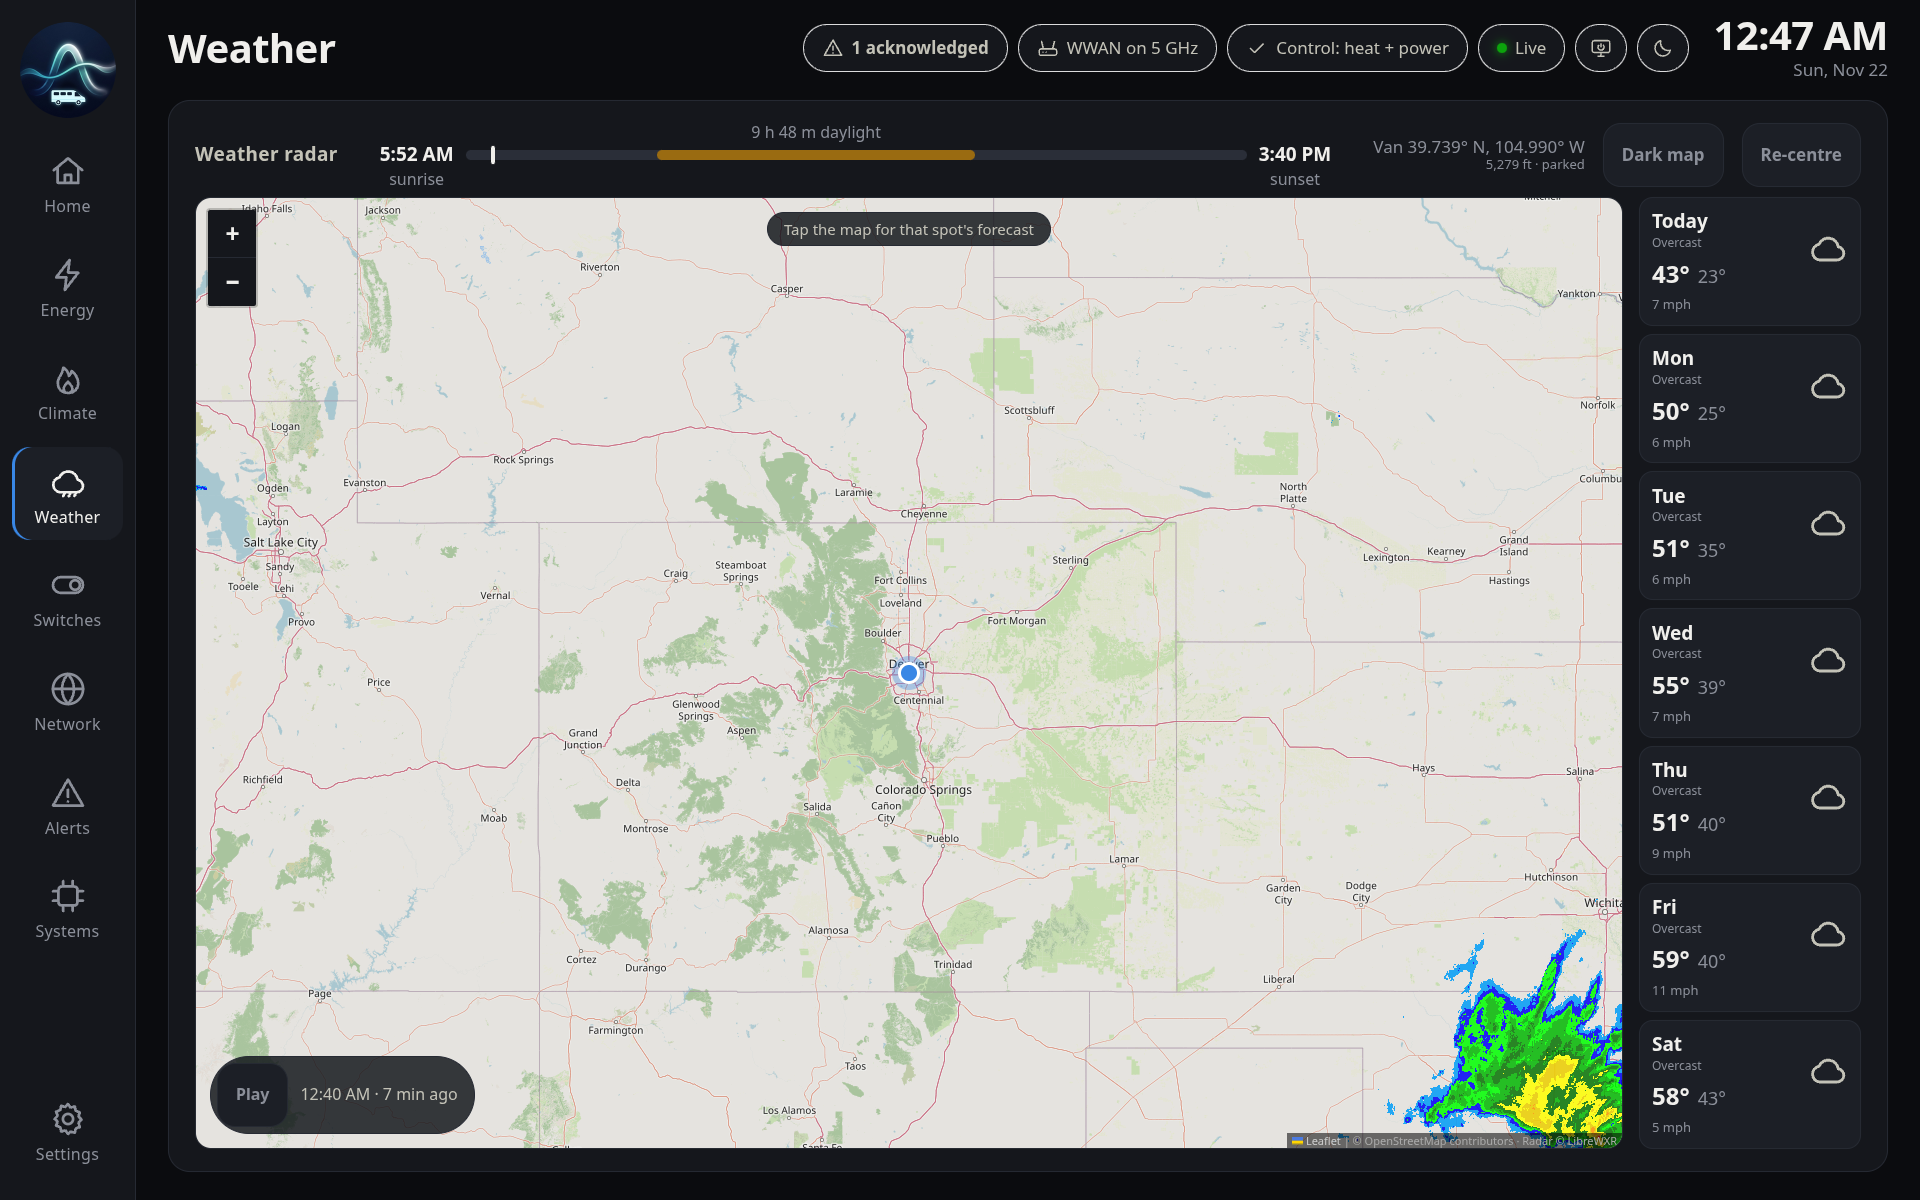
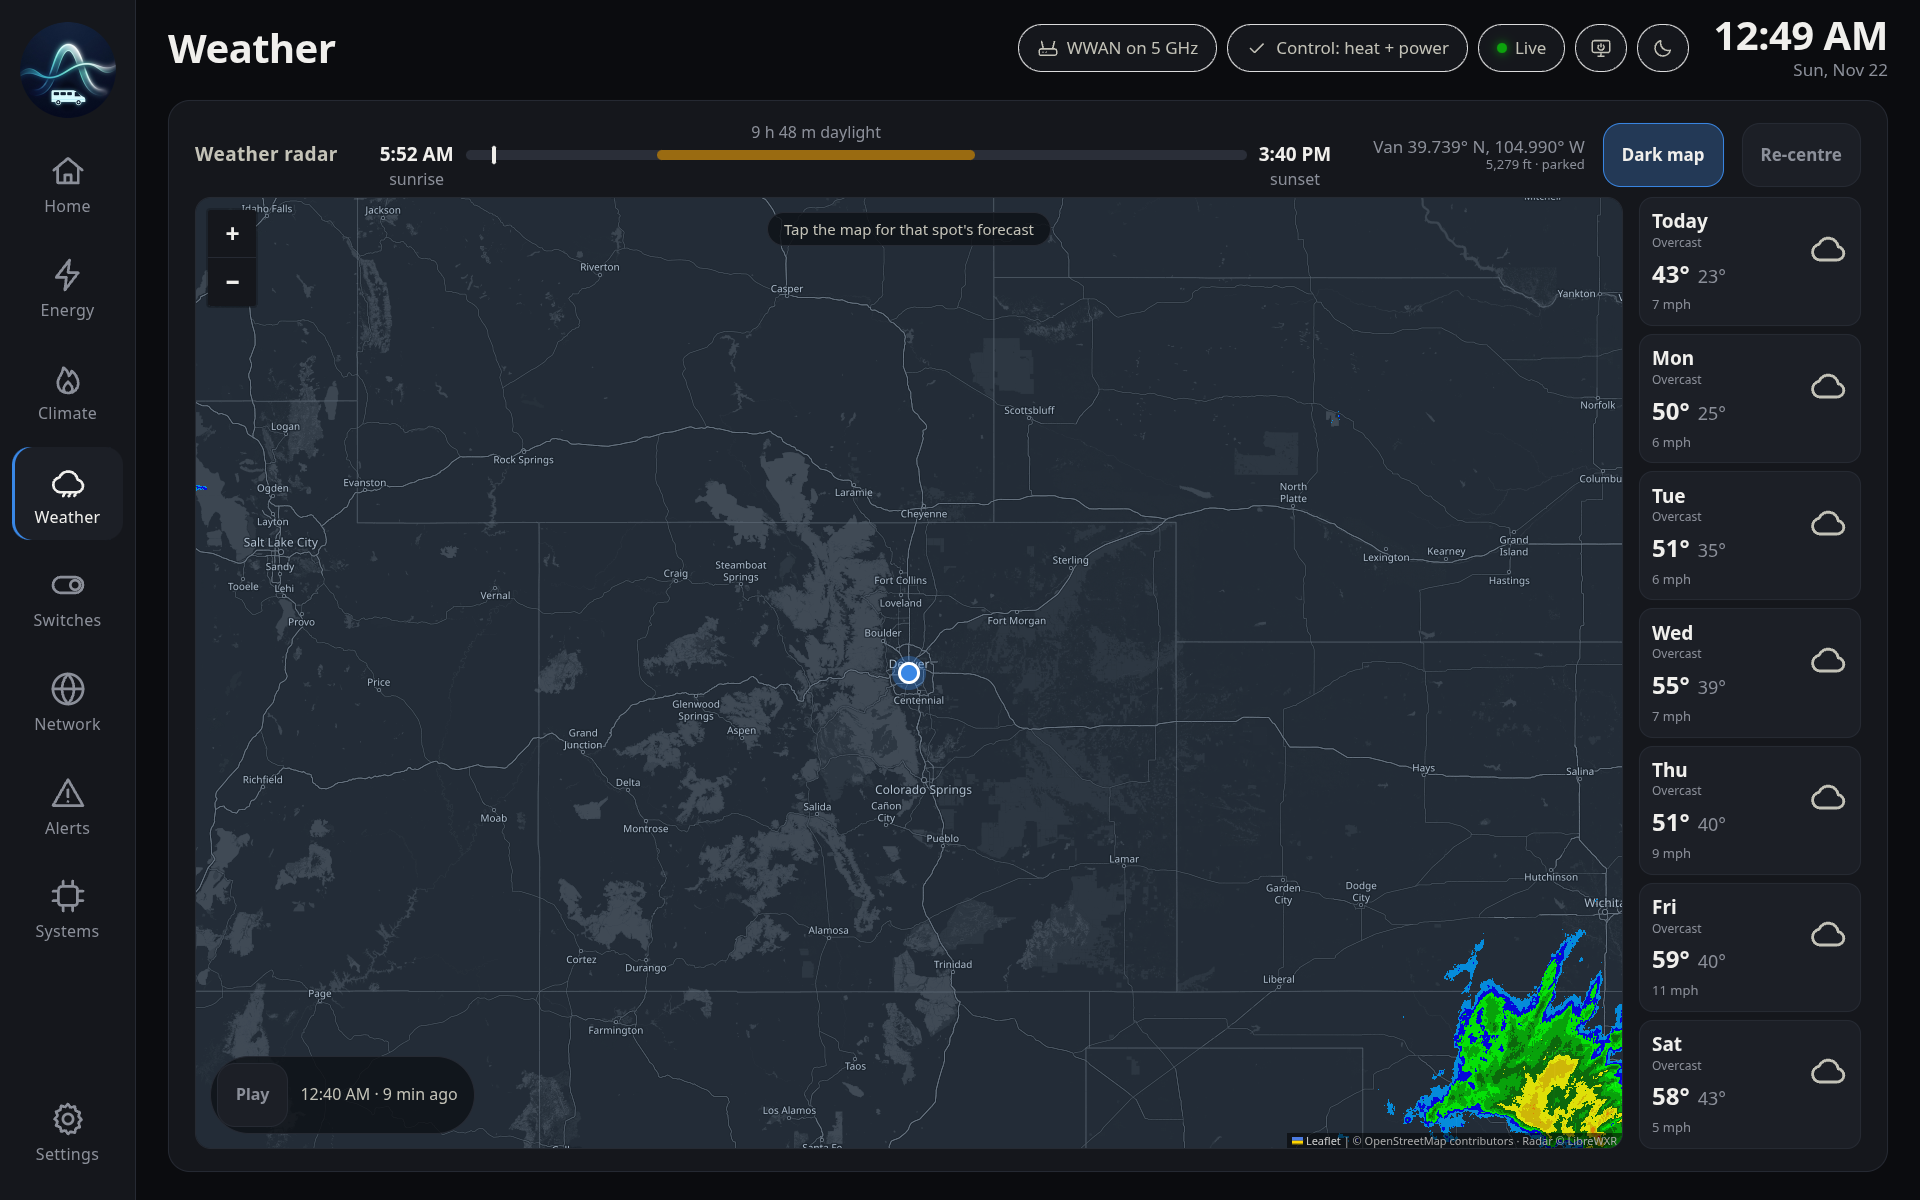
Weather: dark map by default (day and night); README weather shot with the dark map
Claude-Session: https://claude.ai/code/session_01Jyszw5WomTV2FtT2Ap4Hst

diff --git a/web/app.js b/web/app.js
@@ -1221,11 +1221,11 @@ function renderWeather() {
   renderForecast();
 }
 // Dark map (AetherMap-style luminance ramp, basemap only). Separate remembered choices for day and night
-// mode: day defaults to off, night defaults to ON, so switching to night mode darkens the map automatically.
+// mode; both default to ON. A screen that toggled it keeps its own choice.
 const isNight = () => document.documentElement.classList.contains("night");
 const wxDarkKey = () => isNight() ? "vp.wxdark.night" : "vp.wxdark";
 function applyWxDark() {
-  const on = store.get(wxDarkKey(), isNight() ? "1" : "0") === "1";
+  const on = store.get(wxDarkKey(), "1") === "1";              // dark map by default (owner, 2026-11-22), day and night
   $(".wx-wrap").classList.toggle("dark-map", on); $("#wx-dark").classList.toggle("on", on);
 }
 $("#wx-dark").addEventListener("click", () => {
